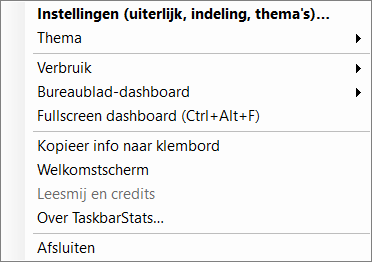
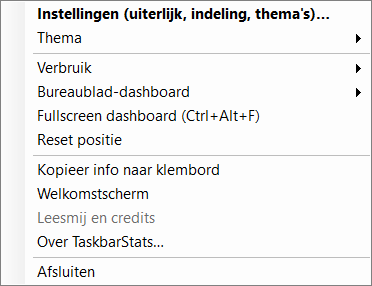
Tooltip pas na instelbare wachttijd (minimaal 2 s, standaard 2 s); Reset positie terug in het menu

Changed region(s): [[0.0887, 0.0, 1.0, 0.9771], [0.9462, 0.3053, 0.9758, 0.3664], [0.9462, 0.1221, 0.9758, 0.1527]]

diff --git a/src/WidgetForm.cs b/src/WidgetForm.cs
@@ -22,6 +22,41 @@ public sealed class WidgetForm : Form
     private readonly System.Windows.Forms.Timer _menuTimer = new();
     private int _menuOutsideTicks;
     private readonly ToolTip _tip = new() { AutoPopDelay = 30000, InitialDelay = 400, ReshowDelay = 100 };
+
+    // De tooltip verschijnt pas nadat de muis een instelbare tijd (minimaal 2 s) op het widget heeft gestaan; zo heb je tijd
+    // om rechts te klikken zonder dat hij ervoor staat. We tonen hem zelf (ToolTip.Show) in plaats van de ingebouwde vertraging.
+    private long _hoverAt;
+    private bool _tipShown;
+
+    private void CheckTooltip()
+    {
+        if (!_hover || _menu.Visible || _dragging || _cfg.TooltipDelayMs < 0) { HideTip(); return; }
+        if (_tipShown) return;
+        if (Environment.TickCount64 - _hoverAt < Math.Max(2000, _cfg.TooltipDelayMs)) return;
+        _tipText = BuildTooltip();
+        PlaceTip(_tipText);
+        _tipShown = true;
+    }
+
+    private void HideTip()
+    {
+        if (!_tipShown) return;
+        _tipShown = false;
+        _tipText = "";
+        _tip.Hide(this);
+    }
+
+    // Boven het widget tonen (of eronder als daar geen ruimte is) en binnen het scherm houden.
+    private void PlaceTip(string t)
+    {
+        var sz = TextRenderer.MeasureText(t, SystemFonts.MessageBoxFont);
+        int w = sz.Width + 16, h = sz.Height + 12;
+        var wa = Screen.FromControl(this).WorkingArea;
+        int x = Math.Min(0, wa.Right - (Left + w));
+        int y = -(h + 6);
+        if (Top + y < wa.Top) y = Height + 6;
+        _tip.Show(t, this, x, y);
+    }
     private string _tipText = "";
     private readonly List<(ToolStripItem item, Func<string> text)> _live = new();
     private List<DriveSpace> _drives = new();
@@ -104,8 +139,8 @@ public sealed class WidgetForm : Form
 
         _notifyHide.Tick += (_, _) => { _notifyHide.Stop(); _notify.Visible = false; };
 
-        MouseEnter += (_, _) => { _hover = true; _procAt = Environment.TickCount64; _procs.SampleAsync(); };
-        MouseLeave += (_, _) => { _hover = false; _procs.Reset(); };
+        MouseEnter += (_, _) => { _hover = true; _hoverAt = Environment.TickCount64; _procAt = _hoverAt; _procs.SampleAsync(); };
+        MouseLeave += (_, _) => { _hover = false; HideTip(); _procs.Reset(); };
         MouseDoubleClick += (_, e) =>
         {
             if (e.Button != MouseButtons.Left) return;
@@ -255,10 +290,11 @@ public sealed class WidgetForm : Form
 
     private void UpdateTooltip()
     {
+        if (!_tipShown) return;
         string t = BuildTooltip();
         if (t == _tipText) return;
         _tipText = t;
-        _tip.SetToolTip(this, t);
+        PlaceTip(t);
     }
 
     private string BuildTooltip(bool forceProcs = false)
@@ -395,6 +431,7 @@ public sealed class WidgetForm : Form
     // ---------- Volledig scherm ----------
     private void OnTopTick()
     {
+        CheckTooltip();
         if (_cfg.AutoHeight && Environment.TickCount64 - _heightCheckedAt > 5000) ApplyHeight();
         bool fs = _cfg.HideInFullscreen && IsFullscreenAppRunning();
         _dash?.SetSuppressed(fs && _cfg.DashFront);
@@ -1073,6 +1110,7 @@ public sealed class WidgetForm : Form
     // ---------- Muis ----------
     private void OnMouseDown(object? s, MouseEventArgs e)
     {
+        HideTip();
         if (e.Button == MouseButtons.Middle) { CopyInfo(); return; }
         if (e.Button == MouseButtons.Left) { _dragging = !_cfg.LockPosition; _dragStart = e.Location; }
         else if (e.Button == MouseButtons.Right) { _dragging = false; _menu.Show(this, e.Location); }
@@ -1172,7 +1210,7 @@ public sealed class WidgetForm : Form
     private void BuildContextMenu()
     {
         _menu = new ContextMenuStrip();
-        _menu.Opening += (_, _) => RefreshMenu(_menu);
+        _menu.Opening += (_, _) => { HideTip(); RefreshMenu(_menu); };
         _menu.Opened += (_, _) => { _menuOutsideTicks = 0; _menuTimer.Start(); };
         _menu.Closed += (_, _) => _menuTimer.Stop();
         _menu.Closing += OnDropDownClosing;
@@ -1211,6 +1249,10 @@ public sealed class WidgetForm : Form
         menu.Items.Add(BuildUsageMenu());
         menu.Items.Add(BuildDashMenu());
         menu.Items.Add(BuildFullMenu());
+
+        var resetItem = new ToolStripMenuItem(Loc.S("resetPos")) { Tag = "close" };
+        resetItem.Click += (_, _) => ResetWidgetPosition();
+        menu.Items.Add(resetItem);
 
         menu.Items.Add(new ToolStripSeparator());
         var copy = new ToolStripMenuItem(Loc.Pick("Kopieer info naar klembord", "Copy info to clipboard")) { Tag = "close" };

diff --git a/src/SettingsForm.cs b/src/SettingsForm.cs
@@ -259,6 +259,15 @@ public sealed class SettingsForm : Form
         reset.Click += (_, _) => _h.ResetWidget();
         p.Controls.Add(reset);
 
+        p.Controls.Add(Head(Loc.Pick("Tooltip boven het widget", "Tooltip over the widget")));
+        var delays = new (string, int)[]
+        {
+            (Loc.S("off"), -1), ("2 s", 2000), ("3 s", 3000), ("4 s", 4000), ("5 s", 5000), ("7 s", 7000), ("10 s", 10000),
+        };
+        p.Controls.Add(Row(Loc.Pick("Verschijnt na", "Appears after"), Seg(delays, () => _c.TooltipDelayMs, v => _c.TooltipDelayMs = v, 52), 130));
+        p.Controls.Add(Note(Loc.Pick("Langer wachten geeft je meer tijd om met de muis op het widget te staan en rechts te klikken.",
+                                     "A longer delay gives you more time to rest the mouse on the widget and right-click.")));
+
         p.Controls.Add(Head(Loc.Pick("Meldingen", "Notifications")));
         var notify = Check(Loc.Pick("Meldingen aan", "Notifications on"), _c.Notifications, v => _c.Notifications = v);
         p.Controls.Add(notify);

diff --git a/src/AppSettings.cs b/src/AppSettings.cs
@@ -80,6 +80,7 @@ public sealed class AppSettings
     // Positie / gedrag
     public bool LockPosition { get; set; } = false;      // sleep uitschakelen
     public bool HideInFullscreen { get; set; } = true;   // verbergen bij volledig-scherm-apps
+    public int TooltipDelayMs { get; set; } = 2000;      // wachttijd voor de tooltip boven het widget (minimaal 2 s); -1 = nooit
 
     // Meldingen
     public bool Notifications { get; set; } = true;

diff --git a/README.md b/README.md
@@ -131,11 +131,12 @@ bij loslaten bewaard); de instellingen (tab Algemeen) hebben "Reset positie".
   - *Dashboard*: tonen, voor-/achtergrond, klik-door, vergrendelen, doorzichtigheid, schaal, kolommen, en **volgorde en aan/uit per hoofdonderdeel**.
   - *Fullscreen*: welk scherm, en volgorde en aan/uit per hoofdonderdeel, met een voorbeeld van de indeling.
   - *Thema's*: 16 meegeleverde thema's (Standaard, Donker, Licht, Zwart-wit, Liefde, CGA, Matrix, Amber, Game Boy, Dracula, Oceaan, Zonsondergang, Bos, Minimaal, Meters, Neon); eigen thema opslaan, laden, verwijderen, importeren en exporteren (zie hieronder).
-  - *Algemeen*: taal (NL/EN), met Windows meestarten (geplande taak, geen UAC-melding), positie vergrendelen/resetten, verbergen bij volledig scherm, meldingen (bijna volle schijf, langdurig hoge belasting), maandlimiet voor netwerkverbruik en het verbruikslog.
+  - *Algemeen*: taal (NL/EN), met Windows meestarten (geplande taak, geen UAC-melding), positie vergrendelen/resetten, verbergen bij volledig scherm, **wachttijd van de tooltip** (minimaal 2 s, standaard 2 s, of uit), meldingen (bijna volle schijf, langdurig hoge belasting), maandlimiet voor netwerkverbruik en het verbruikslog.
 - **Thema**: snelkeuze om met één klik een thema toe te passen.
 - **Verbruik**: ontvangen/verzonden per netwerkadapter (sessie, vandaag, gisteren, 7 dagen, maand) en het log per dag met CSV-export.
+- **Reset positie** (zet het widget terug naast het systeemvak).
 - **Bureaublad-dashboard** (tonen, klik-door, vergrendelen) en **Fullscreen dashboard**, plus *Kopieer info*, *Welkomstscherm*, *Leesmij en credits*, *Over* en **Afsluiten**.
-- **Tooltip**: houd de muis boven het widget voor alle details (RAM in GB, per-GPU, netwerk per adapter, schijven en schijfruimte, temperaturen).
+- **Tooltip**: houd de muis minstens 2 s (instelbaar) boven het widget voor alle details (RAM in GB, per-GPU, netwerk per adapter, schijven en schijfruimte, temperaturen).
 - **Batterij** (laptops): staande batterij met niveau, kleur en bliksem/stekker; percentage in, naast of uit.
 
 Verder: dubbelklik opent Taakbeheer, de middelste muisknop kopieert de tooltip-informatie
